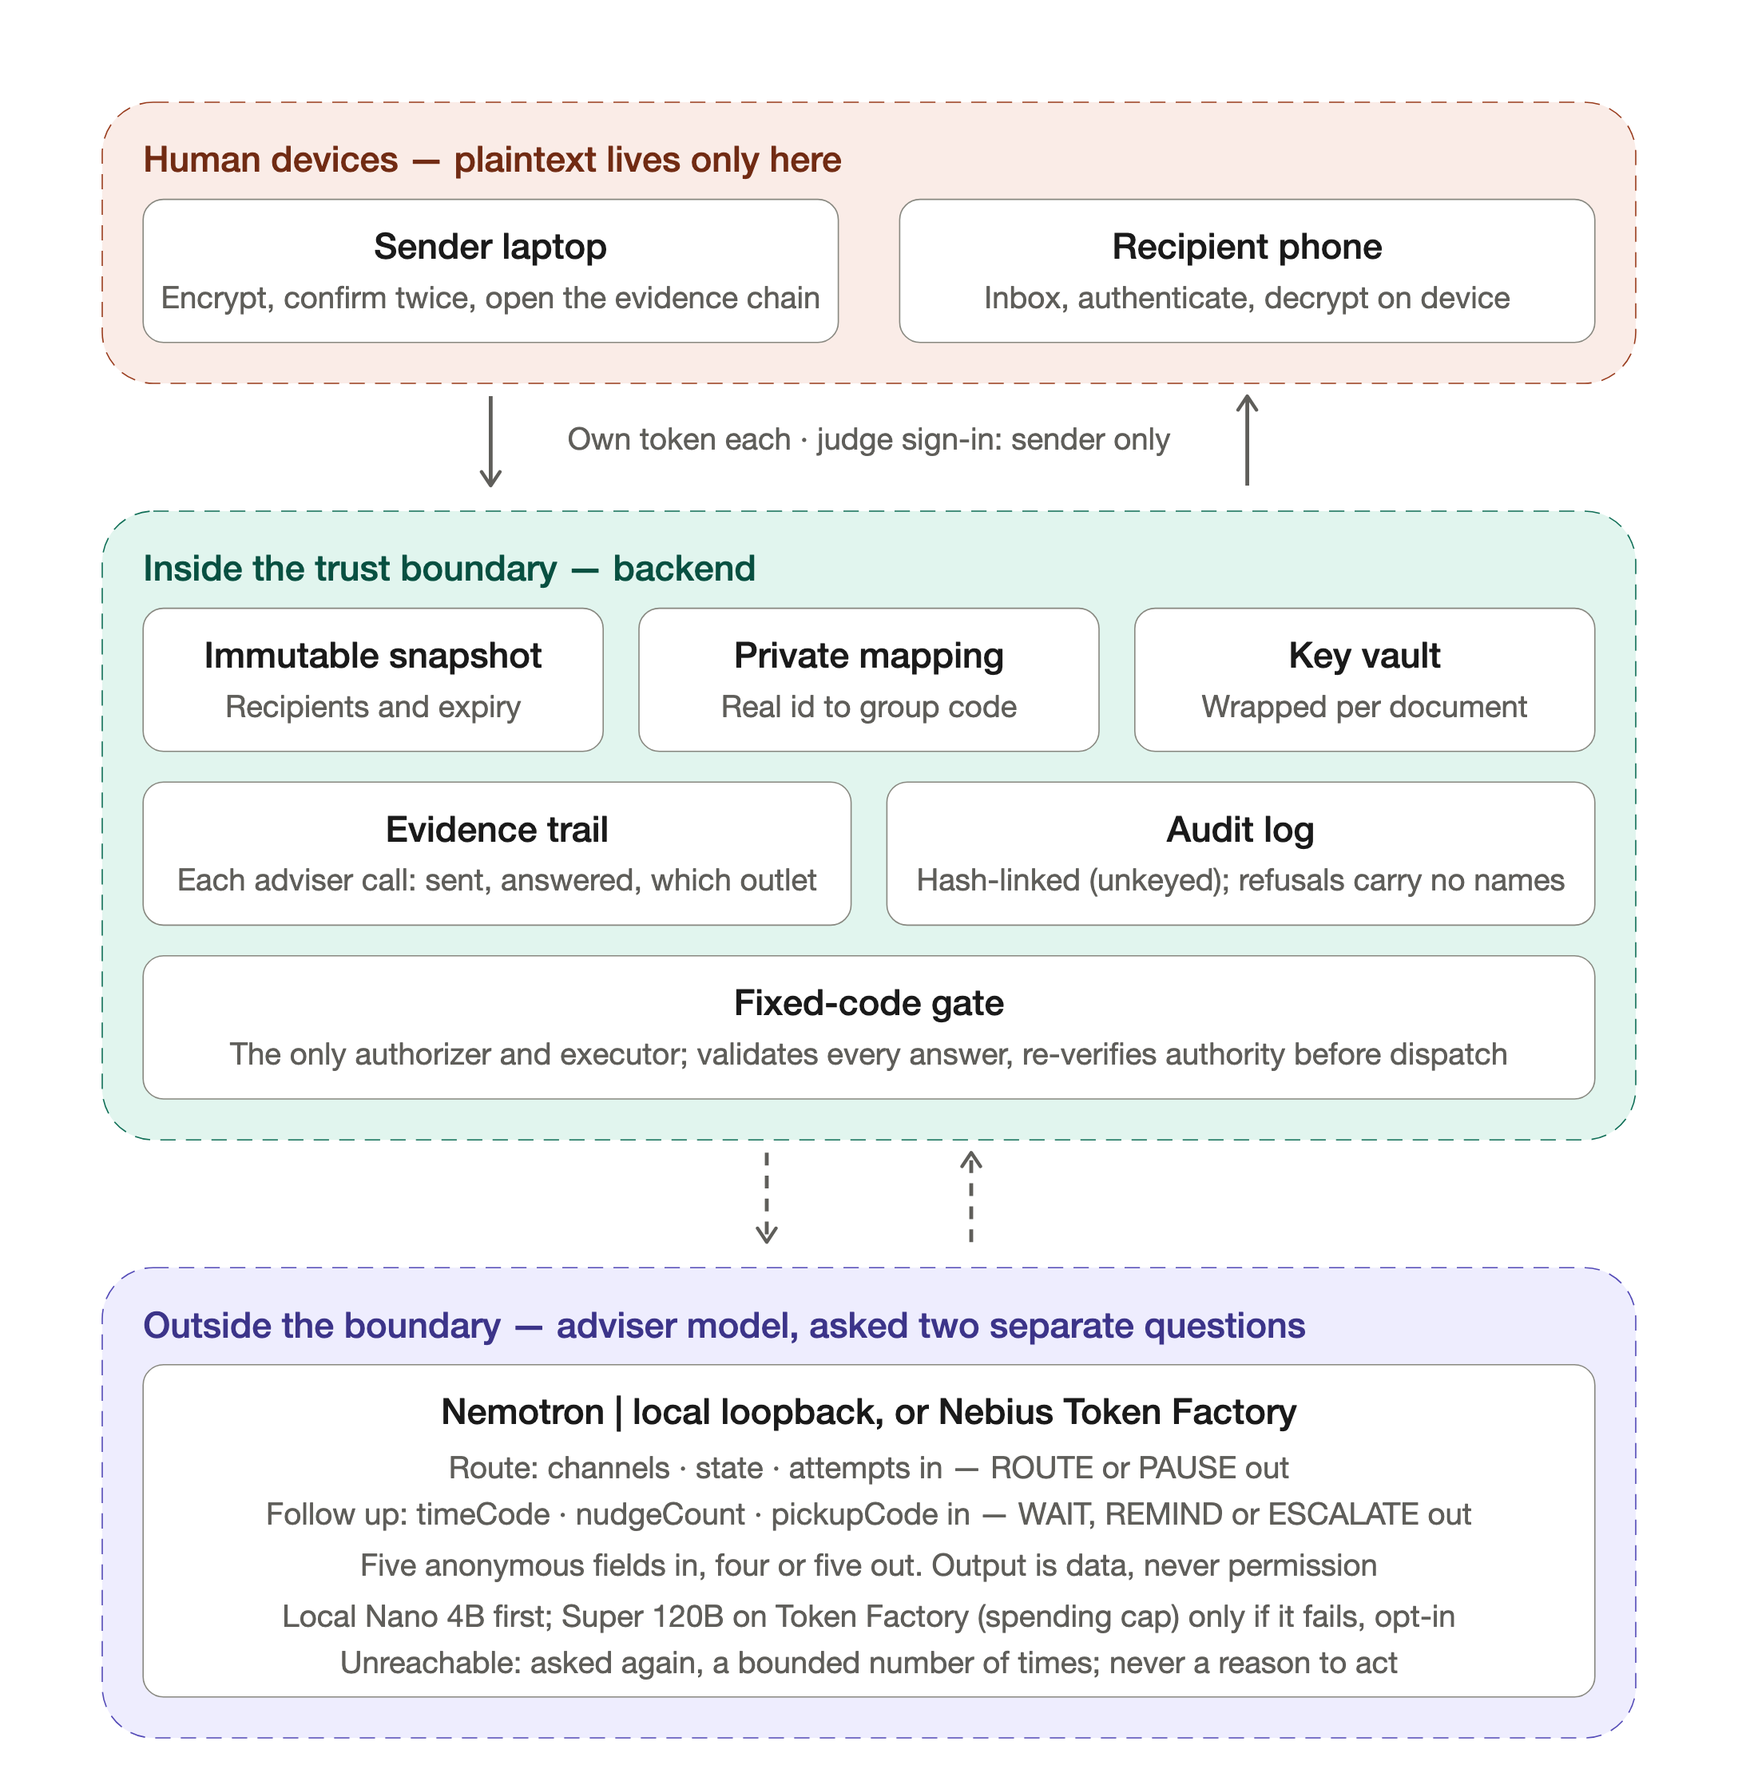
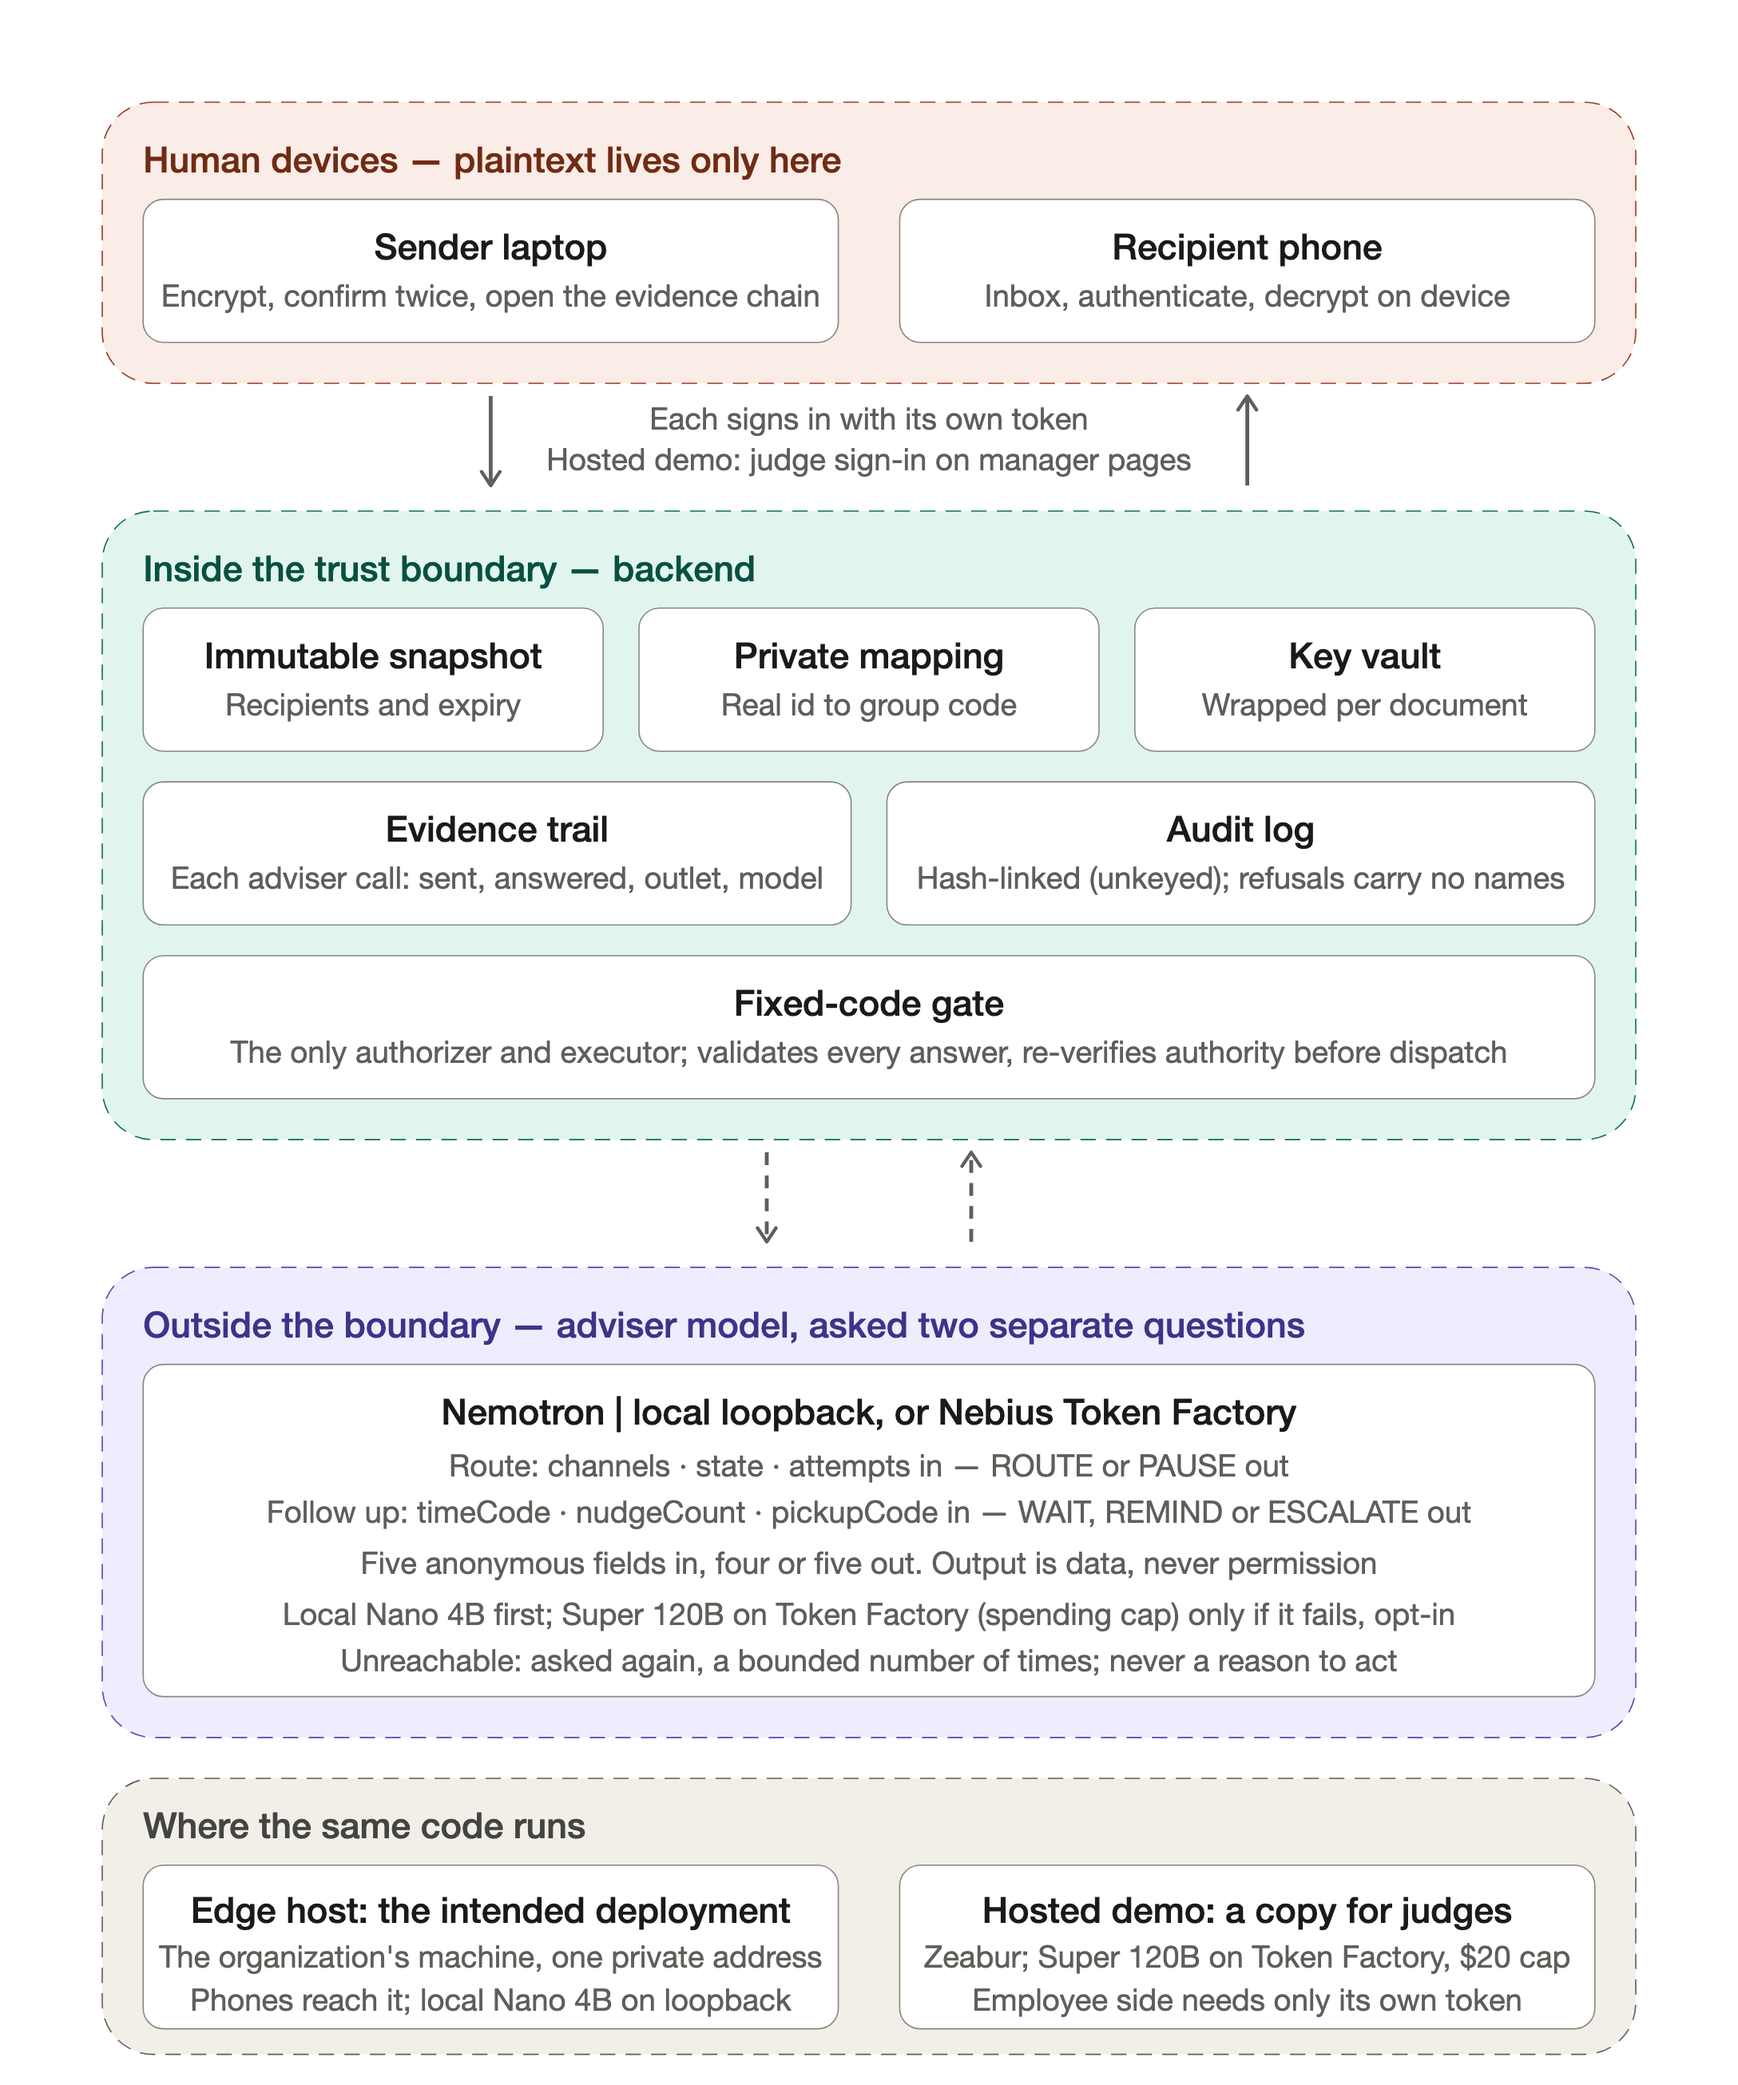
docs: the trust-boundary diagram shows the model in the evidence trail, says which pages the judge sign-in covers, and adds the edge host and the hosted demo as the two places the code runs

Changed region(s): [[0.0312, 0.0625, 0.9688, 0.9688]]

diff --git a/README.md b/README.md
@@ -194,7 +194,7 @@ Version 2026-10-08. `npm test` runs one file, `scripts/local-workflow.test.mjs` 
 
 ## Architecture
 
-Three views, redrawn on 2026-09-25 against the code as it now stands. Each is drawn from the
+Three views, redrawn on 2026-09-25 against the code as it now stands (the trust-boundary view was updated on 2026-10-16: the evidence trail names the model, and a bottom band shows the edge host and the hosted demo). Each is drawn from the
 implementation, not from intent: the state names come from the audit allowlist in
 `audit-boundary.js`, the resumable reason codes from `task-operations.js`, the adviser projections
 from `file-routing.js` and `delivery-followup.js`, and the evidence chain from `task-evidence.js`.
